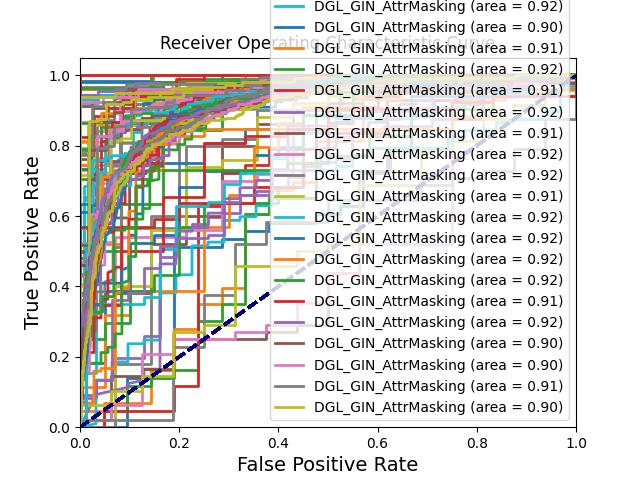
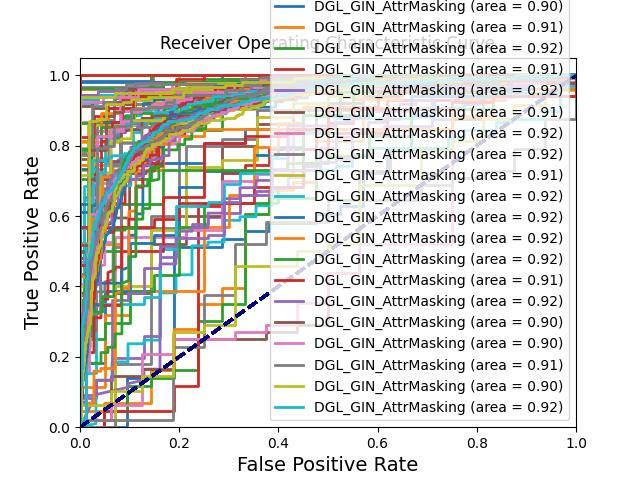
updated generate summary to have all hyperparameter combos in the table summary; also created a readme documenting the deviations from the original paper and the rationale for those deviations.

diff --git a/results/generate_summary.py b/results/generate_summary.py
@@ -5,7 +5,7 @@ Reads all model logs and produces three deliverable CSV reports:
 
 1. results/summary_by_model.csv     — per-model scores across all 22 tasks
 2. results/top3_by_task.csv         — top 3 models per task with compute stats
-3. results/hyperparams_summary.csv  — best hyperparameters used per model per task
+3. results/hyperparams_summary.csv  — best hyperparameters + all combos tried per model per task
 
 Usage:
     python generate_summary.py
@@ -20,38 +20,20 @@ from glob import glob
 
 MODELS = ["MiniMol", "DeepMol", "MapLight_GNN", "ZairaChem", "AttrMasking"]
 
-# TDC ADMET tasks in order
 TASKS = [
-    "caco2_wang",
-    "hia_hou",
-    "pgp_broccatelli",
-    "bioavailability_ma",
-    "lipophilicity_astrazeneca",
-    "solubility_aqsoldb",
-    "bbb_martins",
-    "ppbr_az",
-    "vdss_lombardo",
-    "cyp2c19_veith",
-    "cyp2d6_veith",
-    "cyp3a4_veith",
-    "cyp1a2_veith",
-    "cyp2c9_veith",
-    "cyp2c9_substrate_carbonmangels",
-    "cyp2d6_substrate_carbonmangels",
-    "cyp3a4_substrate_carbonmangels",
-    "half_life_obach",
-    "clearance_hepatocyte_az",
-    "clearance_microsome_az",
-    "herg",
-    "ames",
-    "dili",
+    "caco2_wang", "hia_hou", "pgp_broccatelli", "bioavailability_ma",
+    "lipophilicity_astrazeneca", "solubility_aqsoldb", "bbb_martins",
+    "ppbr_az", "vdss_lombardo", "cyp2c19_veith", "cyp2d6_veith",
+    "cyp3a4_veith", "cyp1a2_veith", "cyp2c9_veith",
+    "cyp2c9_substrate_carbonmangels", "cyp2d6_substrate_carbonmangels",
+    "cyp3a4_substrate_carbonmangels", "half_life_obach",
+    "clearance_hepatocyte_az", "clearance_microsome_az",
+    "herg", "ames", "dili",
 ]
 
 
 def load_all_results(logs_dir):
-    """Load all per-task JSON logs for all models. Returns a flat list of result dicts."""
     records = []
-
     for model_name in MODELS:
         model_log_dir = os.path.join(logs_dir, model_name)
         if not os.path.exists(model_log_dir):
@@ -59,7 +41,8 @@ def load_all_results(logs_dir):
             continue
 
         log_files = glob(os.path.join(model_log_dir, "*.json"))
-        log_files = [f for f in log_files if not os.path.basename(f).startswith("_")
+        log_files = [f for f in log_files
+                     if not os.path.basename(f).startswith("_")
                      and "_tuning" not in os.path.basename(f)]
 
         for log_file in log_files:
@@ -69,7 +52,6 @@ def load_all_results(logs_dir):
             if "error" in result:
                 print(f"  ✗ {model_name} / {result.get('task', '?')} failed: {result['error']}")
                 continue
-
             if result.get("status") == "skipped":
                 continue
 
@@ -87,9 +69,7 @@ def load_all_results(logs_dir):
 
 
 def load_all_tuning(logs_dir):
-    """Load all tuning JSON logs for all models. Returns a flat list of tuning dicts."""
     records = []
-
     for model_name in MODELS:
         model_log_dir = os.path.join(logs_dir, model_name)
         if not os.path.exists(model_log_dir):
@@ -101,36 +81,40 @@ def load_all_tuning(logs_dir):
             with open(tuning_file) as f:
                 result = json.load(f)
 
-            task_name = result.get("task", "")
-            best_params = result.get("best_params", {})
+            task_name      = result.get("task", "")
+            best_params    = result.get("best_params", {})
             best_val_score = result.get("best_val_score")
-            tuning_runs = result.get("tuning_runs", [])
+            tuning_runs    = result.get("tuning_runs", [])
+            best_combo     = result.get("best_combo", "")
 
-            # Format best params as a readable string
             if isinstance(best_params, dict):
                 best_params_str = ", ".join(f"{k}={v}" for k, v in best_params.items())
             else:
                 best_params_str = str(best_params)
 
-            # For DeepMol, best_combo is used instead of best_params
-            best_combo = result.get("best_combo", "")
+            # Format all tried combos as a readable string
+            all_combos_parts = []
+            for r in tuning_runs:
+                if "error" in r:
+                    continue
+                combo = r.get("combo") or r.get("featurizer", "") + "+" + r.get("model", "")
+                score = r.get("val_score", "-")
+                all_combos_parts.append(f"{combo}: {score}")
+            all_combos_str = " | ".join(all_combos_parts)
 
             records.append({
-                "model":           model_name,
-                "task":            task_name,
-                "best_params":     best_params_str if best_params_str else best_combo,
-                "best_val_score":  best_val_score,
+                "model":            model_name,
+                "task":             task_name,
+                "best_params":      best_params_str if best_params_str else best_combo,
+                "best_val_score":   best_val_score,
                 "num_combos_tried": len(tuning_runs),
+                "all_combos":       all_combos_str,
             })
 
     return pd.DataFrame(records)
 
 
 def generate_summary_by_model(df, output_dir):
-    """
-    Table 1: rows = tasks, columns = models
-    Cell value: "mean ± std"
-    """
     rows = []
     for task in TASKS:
         task_df = df[df["task"] == task]
@@ -154,22 +138,16 @@ def generate_summary_by_model(df, output_dir):
 
 
 def generate_top3_by_task(df, output_dir):
-    """
-    Table 2: for each task, the top 3 models ranked by score.
-    Includes model name, metric, score, training time, GPU memory.
-    """
     regression_metrics = {"mae", "rmse", "mse", "spearman"}
-
     rows = []
     for task in TASKS:
         task_df = df[df["task"] == task].copy()
         if task_df.empty:
             continue
 
-        metric = task_df.iloc[0]["metric"].lower() if not task_df.empty else ""
+        metric    = task_df.iloc[0]["metric"].lower() if not task_df.empty else ""
         ascending = any(m in metric for m in regression_metrics)
-
-        task_df = task_df.sort_values("score_mean", ascending=ascending).reset_index(drop=True)
+        task_df   = task_df.sort_values("score_mean", ascending=ascending).reset_index(drop=True)
 
         for rank, (_, row) in enumerate(task_df.head(3).iterrows(), start=1):
             rows.append({
@@ -190,10 +168,6 @@ def generate_top3_by_task(df, output_dir):
 
 
 def generate_hyperparams_summary(tuning_df, output_dir):
-    """
-    Table 3: best hyperparameters used per model per task.
-    Shows what settings produced the best validation score.
-    """
     rows = []
     for task in TASKS:
         for model in MODELS:
@@ -211,6 +185,7 @@ def generate_hyperparams_summary(tuning_df, output_dir):
                 "best_params":      row["best_params"],
                 "best_val_score":   f"{row['best_val_score']:.4f}" if row["best_val_score"] else "-",
                 "num_combos_tried": row["num_combos_tried"],
+                "all_combos":       row["all_combos"],
             })
 
     hyperparams_df = pd.DataFrame(rows)
@@ -221,7 +196,6 @@ def generate_hyperparams_summary(tuning_df, output_dir):
 
 
 def print_preview(df, n=10):
-    """Print first n rows for quick sanity check."""
     with pd.option_context("display.max_columns", None, "display.width", 120):
         print(df.head(n).to_string(index=False))
 

diff --git a/results/README.md b/results/README.md
@@ -1,0 +1,141 @@
+# Results
+
+This folder contains the benchmark results for all 5 TDC ADMET models.
+
+## Output Files
+
+| File | Description |
+|------|-------------|
+| `summary_by_model.csv` | Per-model scores (mean ± std) across all 22 tasks |
+| `top3_by_task.csv` | Top 3 models per task with training time and GPU memory |
+| `hyperparams_summary.csv` | Best hyperparameters and all combos tried per model per task |
+
+To regenerate these files after adding new model logs:
+```bash
+python results/generate_summary.py
+```
+
+---
+
+## Deviations from Original Model Pipelines
+
+### MiniMol
+
+**Original pipeline:**
+- Pre-trained GNN encoder (frozen) → MLP downstream predictor
+- Fixed hyperparameters, no per-task tuning
+- Pre-trained on ~6M molecules across 3,300 biological and quantum tasks
+
+**Our implementation:**
+- Pre-trained GNN encoder (frozen) → Random Forest downstream predictor
+- Added grid search over 4 hyperparameter combos per task (n_estimators: 50/100/200, max_depth: None/10)
+- Used seeds [1,2,3,4,5] and evaluate_many() per TDC protocol
+
+**Known issues:**
+- MiniMol pre-training data may overlap with TDC test molecules (data leakage flagged in 2026 critical assessment)
+- Scores may be slightly inflated as a result
+- torch 2.9.0 required — graphium dependency pulls in 2.12.0 and must be reinstalled after
+
+---
+
+### DeepMol
+
+**Original pipeline:**
+- Full AutoML search across 140+ model/featurizer combinations
+- Uses deepmol 1.2.1 with RDKit descriptors, mol2vec, and deep learning featurizers
+- Optimized pipelines available via deepmol_case_studies repo
+
+**Our implementation:**
+- Reduced to 2 featurizers x 3 models = 6 combos due to dependency conflicts
+- Featurizers: Morgan fingerprints (2048-bit, 1024-bit) only — mol2vec and RDKit descriptors excluded
+- Models: Random Forest (100 trees), Random Forest (200 trees), XGBoost
+- Used deepmol 1.1.7 instead of 1.2.1 due to rdkit/PyTDC version conflicts
+- PyTDC installed with --no-deps to avoid rdkit conflict
+- API changes from 1.2.1: SmilesDataset path, featurize() return value, task= parameter
+
+**Known issues:**
+- mol2vec not installed — breaks pandas version pins
+- RDKit descriptors not tested — potential import issues with this version
+- deepmol 1.1.7 has fewer featurizers than 1.2.1
+
+---
+
+### AttrMasking
+
+**Original pipeline:**
+- DGL_GIN_AttrMasking encoder via DeepPurpose
+- Pre-trained using attribute masking + context prediction + graph-level supervised pre-training
+- Fixed hyperparameters from paper (lr=0.001, epochs=50)
+
+**Our implementation:**
+- Same DGL_GIN_AttrMasking encoder via DeepPurpose
+- Added tuning grid over 4 hyperparameter combos (lr: 1e-3/5e-4/1e-4, epochs: 30/50)
+- Removed binary= parameter from generate_config() — not available in installed version
+- Added CUDA_VISIBLE_DEVICES=0 to prevent multi-GPU NCCL errors
+- Pre-trained weights downloaded manually to ~/.dgl/ due to intermittent network issues
+- Monkey-patched dgl.data.utils.download with overwrite=False to prevent re-downloading weights
+
+**Known issues:**
+- Very slow — 440 total fine-tuning runs (22 tasks x 4 combos x 5 seeds)
+- GPU memory shows 0.0 MiB due to how DeepPurpose tracks memory
+
+---
+
+### ZairaChem
+
+**Original pipeline:**
+- Full AutoML pipeline using Ersilia Model Hub descriptors
+- Multiple descriptor types: ECFP, shape, signature, Grover embeddings
+- Multiple AutoML frameworks: FLAML, AutoGluon, Keras Tuner, TabPFN, MolMapNet
+- Ensembles predictions from multiple models
+
+**Our implementation:**
+- Used zairachem-docker (v1.0.0) instead of original zaira-chem — required due to dependency conflicts
+- Several manual bug fixes applied:
+  - TrainSetup: set self.featurizer_ids = DEFAULT_FEATURIZERS before model_ids check
+  - utils.py: replaced logger.exception( with logger.error(
+  - protobuf pinned to <3.21.0 to fix descriptor errors
+  - onnx_runner and olinda installed from local repo paths
+- torch installed separately after install script
+- Regression tasks skipped — ZairaChem v1 supports classification only (8 tasks skipped)
+- No hyperparameter tuning logged — ZairaChem manages its own internal search
+
+**Known issues:**
+- Process gets stopped (SIGTSTP) when run from interactive terminal — must use setsid to detach
+- Very slow — each task takes 30-60 minutes
+- Ersilia model hub access required during install — may fail on restricted networks
+
+---
+
+### MapLight + GNN
+
+**Original pipeline:**
+- ECFP + Avalon + ErG + RDKit 2D descriptors + GIN supervised masking embeddings → CatBoost
+- Default CatBoost parameters with minimal tuning
+- 5-seed ensemble
+
+**Our implementation:**
+- Same feature pipeline but with molfeat API change: 'ecfp' instead of 'ecfp:4'
+- Added tuning grid over 4 CatBoost hyperparameter combos (iterations: 500/1000/2000, learning_rate: 0.03/0.1)
+- Required LD_LIBRARY_PATH to be set for DGL CUDA library access
+- DGL installed via conda install -c dglteam/label/th212_cu126 to match torch 2.12.0
+- numpy pinned to 1.26.4 to avoid scipy/pandas compatibility issues
+
+**Known issues:**
+- molfeat ecfp:4 format not supported — use ecfp instead
+- DGL requires explicit LD_LIBRARY_PATH pointing to CUDA runtime libraries
+- torch 2.12.0 pulled in by other dependencies — DGL must match this version
+
+---
+
+## Reproducibility Notes
+
+| Model | Reproducibility | Notes |
+|-------|----------------|-------|
+| MiniMol | Partial | Data leakage flagged — scores may be inflated |
+| DeepMol | Good | Reduced featurizer set vs original |
+| AttrMasking | Good | Added tuning grid vs original fixed params |
+| ZairaChem | Partial | Docker version used, several manual patches |
+| MapLight+GNN | Good | Passed all reproducibility checks in 2026 assessment |
+
+MapLight+GNN is the most trustworthy baseline — deterministic fingerprints, no pre-training data leakage, and verified reproducible.